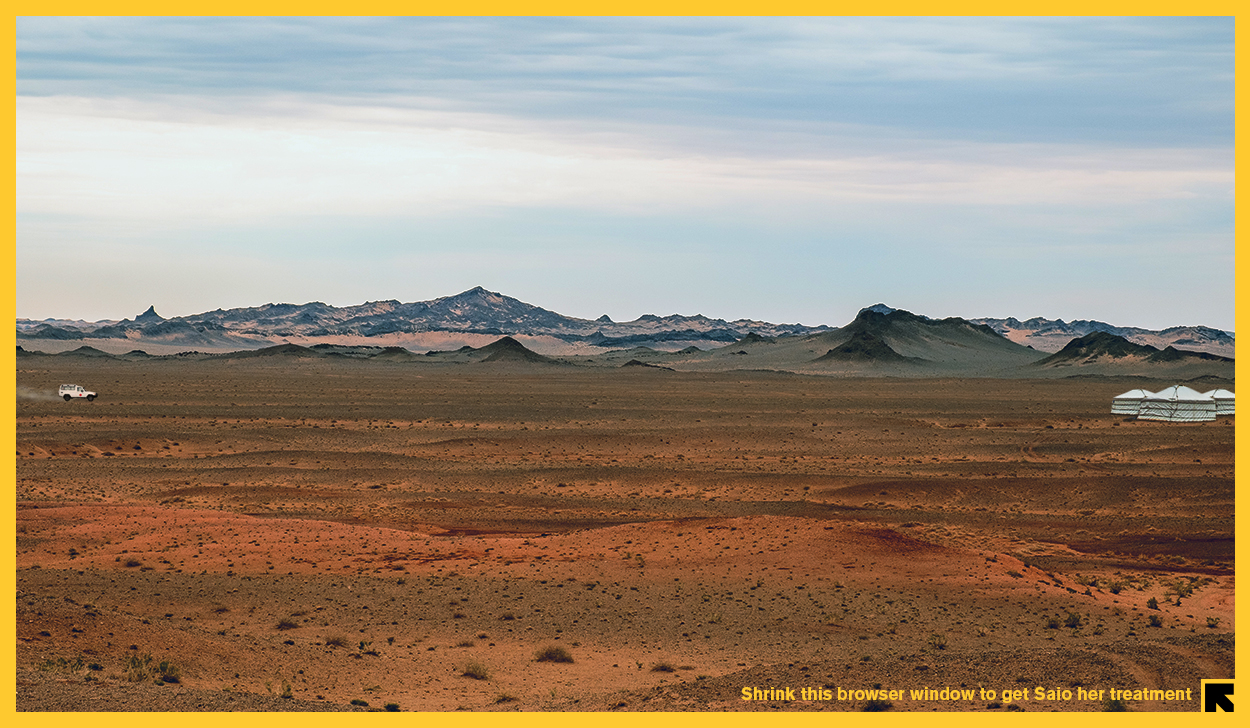
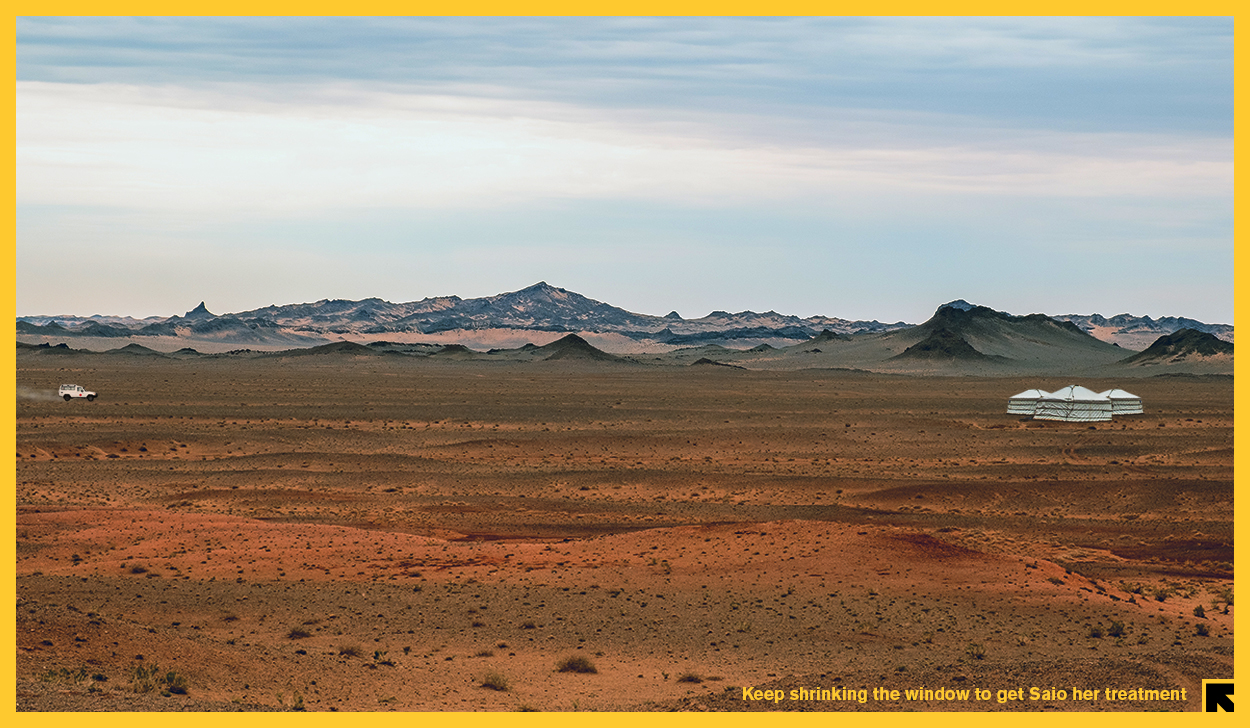
Changed opening animation, moved placement of tents, added people on end, and fixed some bugs

diff --git a/js/index.js b/js/index.js
@@ -21,46 +21,57 @@ $(document).ready(function() {
 		prev = w;
 
 		if (w >= 1700) {
-			$('#img1440, #mainheader, #pointer').css("width", "1700px");
+			$('#img1440, #mainheader, #fakeborder').css("width", "1700px");
 			$('#img1440, #mainheader').fadeIn(700);
-			$('#pointer').delay(1000).fadeIn(300).delay(300).fadeOut(300).delay(300).fadeIn(300).delay(300).fadeOut(300);
+			// $('#pointer').delay(1000).fadeIn(300).delay(300).fadeOut(300).delay(300).fadeIn(300).delay(300).fadeOut(300);
 			headeron = true;
 		} else if (w >= 1440) {
-			$('#img1440, #pointer').css("width", "100%");
+			$('#img1440, #fakeborder').css("width", "100%");
 			$('#img1440, #mainheader').fadeIn(700);
 			headeron = true;
-			$('#pointer').delay(1000).fadeIn(300).delay(300).fadeOut(300).delay(300).fadeIn(300).delay(300).fadeOut(300);
+			$('#fakeborder').toggle().delay(800).animate({ left: "-=15" }, 500).animate({ left: "+=15" }, 500).delay(500).animate({ left: "-=15" }, 500).animate({ left: "+=15" }, 500).fadeOut(300);
+			// $('#pointer').delay(1000).fadeIn(300).delay(300).fadeOut(300).delay(300).fadeIn(300).delay(300).fadeOut(300);
 		} else if (w >= 1400) {
 			$('#img1400, #mainheader').fadeIn(700);
 			headeron = true;
-			$('#pointer').css({width: "1340px", height: "728px", left: "55px"});
-			$('#pointer').delay(1000).fadeIn(300).delay(300).fadeOut(300).delay(300).fadeIn(300).delay(300).fadeOut(300);
+			$('#fakeborder').css("left", "-40px");
+			$('#fakeborder').toggle().delay(800).animate({ left: "-=15" }, 500).animate({ left: "+=15" }, 500).delay(500).animate({ left: "-=15" }, 500).animate({ left: "+=15" }, 500).fadeOut(300);
+			// $('#pointer').css({width: "1340px", height: "728px", left: "55px"});
+			// $('#pointer').delay(1000).fadeIn(300).delay(300).fadeOut(300).delay(300).fadeIn(300).delay(300).fadeOut(300);
 		} else if (w >= 1350) {
 			$('#img1350, #mainheader').fadeIn(700);
 			headeron = true;
-			$('#pointer').css({width: "1280px", height: "728px", left: "65px"});
-			$('#pointer').delay(1000).fadeIn(300).delay(300).fadeOut(300).delay(300).fadeIn(300).delay(300).fadeOut(300);
+			$('#fakeborder').css("left", "-90px");
+			$('#fakeborder').toggle().delay(800).animate({ left: "-=15" }, 500).animate({ left: "+=15" }, 500).delay(500).animate({ left: "-=15" }, 500).animate({ left: "+=15" }, 500).fadeOut(300);
+			// $('#pointer').css({width: "1280px", height: "728px", left: "65px"});
+			// $('#pointer').delay(1000).fadeIn(300).delay(300).fadeOut(300).delay(300).fadeIn(300).delay(300).fadeOut(300);
 		} else if (w >= 1300) {
 			$('#img1300, #mainheader').fadeIn(700);
 			headeron = true;
-			$('#pointer2').css({width: "1500px", height: "728px", left: "-200px"});
-			$('#pointer2').delay(1000).fadeIn(300).delay(300).fadeOut(300).delay(300).fadeIn(300).delay(300).fadeOut(300);
+			$('#fakeborder').css("left", "-140px");
+			$('#fakeborder').toggle().delay(800).animate({ left: "-=15" }, 500).animate({ left: "+=15" }, 500).delay(500).animate({ left: "-=15" }, 500).animate({ left: "+=15" }, 500).fadeOut(300);
+			// $('#pointer2').css({width: "1500px", height: "728px", left: "-200px"});
+			// $('#pointer2').delay(1000).fadeIn(300).delay(300).fadeOut(300).delay(300).fadeIn(300).delay(300).fadeOut(300);
 			$('#modal1').fadeIn(700);
 			console.log("Window is " + w + " and previous was n/a");
 			modal1on = true;
 		} else if (w >= 1250) {
 			$('#img1250, #mainheader').fadeIn(700);
 			headeron = true;
-			$('#pointer2').css({width: "1440px", height: "735px", left: "-195px", top: "-8px"});
-			$('#pointer2').delay(1000).fadeIn(300).delay(300).fadeOut(300).delay(300).fadeIn(300).delay(300).fadeOut(300);
+			// $('#fakeborder').css("left", "-190px");
+			// $('#fakeborder').toggle().delay(800).animate({ left: "-=15" }, 500).animate({ left: "+=15" }, 500).delay(500).animate({ left: "-=15" }, 500).animate({ left: "+=15" }, 500).fadeOut(300);
+			// $('#pointer2').css({width: "1440px", height: "735px", left: "-195px", top: "-8px"});
+			// $('#pointer2').delay(1000).fadeIn(300).delay(300).fadeOut(300).delay(300).fadeIn(300).delay(300).fadeOut(300);
 			$('#modal1').fadeIn(700);
 			console.log("Window is " + w + " and previous was n/a");
 			modal1on = true;
 		} else if (w >= 1200) {
 			$('#img1200, #mainheader').fadeIn(700);
 			headeron = true;
-			$('#pointer2').css({width: "1390px", height: "748px", left: "-190px", top: "-18px"});
-			$('#pointer2').delay(1000).fadeIn(300).delay(300).fadeOut(300).delay(300).fadeIn(300).delay(300).fadeOut(300);
+			// $('#fakeborder').css("left", "-240px");
+			// $('#fakeborder').toggle().delay(800).animate({ left: "-=15" }, 500).animate({ left: "+=15" }, 500).delay(500).animate({ left: "-=15" }, 500).animate({ left: "+=15" }, 500).fadeOut(300);
+			// $('#pointer2').css({width: "1390px", height: "748px", left: "-190px", top: "-18px"});
+			// $('#pointer2').delay(1000).fadeIn(300).delay(300).fadeOut(300).delay(300).fadeIn(300).delay(300).fadeOut(300);
 			$('#modal1').fadeIn(700);
 			console.log("Window is " + w + " and previous was n/a");
 			modal1on = true;
@@ -143,28 +154,30 @@ $(document).ready(function() {
 	window.onresize = function() {
 		var w = window.innerWidth;
 
+		$('#fakeborder').hide();
+
 		if (w >= 1700) {
 			$('#img1440').css("width", "1700px");
 			$('#img1440').show();
-			$('#img1400, #img1350, #img1300, #img1250, #img1200, #img1150, #img1100, #img1050, #img1000, #img950, #img900, #img850, #img800, #img750, #img700, #img650, #img600, #img550, #img520, #img500, #img480, #img460, #img445').hide();
+			$('#modal1, #modal2, #modal3, #img1400, #img1350, #img1300, #img1250, #img1200, #img1150, #img1100, #img1050, #img1000, #img950, #img900, #img850, #img800, #img750, #img700, #img650, #img600, #img550, #img520, #img500, #img480, #img460, #img445').hide();
 			if (prev < w) {
 				$('#mainheader').css("width", "1700px");
 			}
 		} else if (w >= 1440) {
 			$('#img1440').css("width", "100%");
 			$('#img1440').show();
-			$('#img1400, #img1350, #img1300, #img1250, #img1200, #img1150, #img1100, #img1050, #img1000, #img950, #img900, #img850, #img800, #img750, #img700, #img650, #img600, #img550, #img520, #img500, #img480, #img460, #img445').hide();
+			$('#modal1, #modal2, #modal3, #img1400, #img1350, #img1300, #img1250, #img1200, #img1150, #img1100, #img1050, #img1000, #img950, #img900, #img850, #img800, #img750, #img700, #img650, #img600, #img550, #img520, #img500, #img480, #img460, #img445').hide();
 			if (prev > w) {
 				$('#mainheader').css("width", "100%");
 			}
 		} else if (w >= 1400) {
-			$('#img1440, #img1350, #img1300, #img1250, #img1200, #img1150, #img1100, #img1050, #img1000, #img950, #img900, #img850, #img800, #img750, #img700, #img650, #img600, #img550, #img520, #img500, #img480, #img460, #img445').hide();
+			$('#modal1, #modal2, #modal3, #img1440, #img1350, #img1300, #img1250, #img1200, #img1150, #img1100, #img1050, #img1000, #img950, #img900, #img850, #img800, #img750, #img700, #img650, #img600, #img550, #img520, #img500, #img480, #img460, #img445').hide();
 			$('#img1400').show();
 		} else if (w >= 1350) {
-			$('#img1440, #img1400, #img1300, #img1250, #img1200, #img1150, #img1100, #img1050, #img1000, #img950, #img900, #img850, #img800, #img750, #img700, #img650, #img600, #img550, #img520, #img500, #img480, #img460, #img445').hide();
+			$('#modal1, #modal2, #modal3, #img1440, #img1400, #img1300, #img1250, #img1200, #img1150, #img1100, #img1050, #img1000, #img950, #img900, #img850, #img800, #img750, #img700, #img650, #img600, #img550, #img520, #img500, #img480, #img460, #img445').hide();
 			$('#img1350').show();
 		} else if (w >= 1300) {
-			$('#img1440, #img1400, #img1350, #img1250, #img1200, #img1150, #img1100, #img1050, #img1000, #img950, #img900, #img850, #img800, #img750, #img700, #img650, #img600, #img550, #img520, #img500, #img480, #img460, #img445').hide();
+			$('#modal2, #modal3, #img1440, #img1400, #img1350, #img1250, #img1200, #img1150, #img1100, #img1050, #img1000, #img950, #img900, #img850, #img800, #img750, #img700, #img650, #img600, #img550, #img520, #img500, #img480, #img460, #img445').hide();
 			$('#img1300').show();
 			//modal1 fades in/out
 			if (prev > w && !modal1on) {
@@ -177,16 +190,16 @@ $(document).ready(function() {
 				modal1on = false;
 			}
 		} else if (w >= 1250) {
-			$('#img1440, #img1400, #img1350, #img1300, #img1200, #img1150, #img1100, #img1050, #img1000, #img950, #img900, #img850, #img800, #img750, #img700, #img650, #img600, #img550, #img520, #img500, #img480, #img460, #img445').hide();
+			$('#modal2, #modal3, #img1440, #img1400, #img1350, #img1300, #img1200, #img1150, #img1100, #img1050, #img1000, #img950, #img900, #img850, #img800, #img750, #img700, #img650, #img600, #img550, #img520, #img500, #img480, #img460, #img445').hide();
 			$('#img1250').show();
 		} else if (w >= 1200) {
-			$('#img1440, #img1400, #img1350, #img1300, #img1250, #img1150, #img1100, #img1050, #img1000, #img950, #img900, #img850, #img800, #img750, #img700, #img650, #img600, #img550, #img520, #img500, #img480, #img460, #img445').hide();
+			$('#modal2, #modal3, #img1440, #img1400, #img1350, #img1300, #img1250, #img1150, #img1100, #img1050, #img1000, #img950, #img900, #img850, #img800, #img750, #img700, #img650, #img600, #img550, #img520, #img500, #img480, #img460, #img445').hide();
 			$('#img1200').show();
 		} else if (w >= 1150) {
-			$('#img1440, #img1400, #img1350, #img1300, #img1250, #img1200, #img1100, #img1050, #img1000, #img950, #img900, #img850, #img800, #img750, #img700, #img650, #img600, #img550, #img520, #img500, #img480, #img460, #img445').hide();
+			$('#modal2, #modal3, #img1440, #img1400, #img1350, #img1300, #img1250, #img1200, #img1100, #img1050, #img1000, #img950, #img900, #img850, #img800, #img750, #img700, #img650, #img600, #img550, #img520, #img500, #img480, #img460, #img445').hide();
 			$('#img1150').show();
 		} else if (w >= 1100) {
-			$('#img1440, #img1400, #img1350, #img1300, #img1250, #img1200, #img1150, #img1050, #img1000, #img950, #img900, #img850, #img800, #img750, #img700, #img650, #img600, #img550, #img520, #img500, #img480, #img460, #img445').hide();
+			$('#modal2, #modal3, #img1440, #img1400, #img1350, #img1300, #img1250, #img1200, #img1150, #img1050, #img1000, #img950, #img900, #img850, #img800, #img750, #img700, #img650, #img600, #img550, #img520, #img500, #img480, #img460, #img445').hide();
 			$('#img1100').show();
 			//modal1 fades in/out
 			if (prev > w && modal1on) {
@@ -206,14 +219,14 @@ $(document).ready(function() {
 				headeron = true;
 			}
 		} else if (w >= 1050) {
-			$('#img1440, #img1400, #img1350, #img1300, #img1250, #img1200, #img1150, #img1100, #img1000, #img950, #img900, #img850, #img800, #img750, #img700, #img650, #img600, #img550, #img520, #img500, #img480, #img460, #img445').hide();
+			$('#mainheader, #modal1, #modal2, #modal3, #img1440, #img1400, #img1350, #img1300, #img1250, #img1200, #img1150, #img1100, #img1000, #img950, #img900, #img850, #img800, #img750, #img700, #img650, #img600, #img550, #img520, #img500, #img480, #img460, #img445').hide();
 			$('#img1050').show();
 		} else if (w >= 1000) {
-			$('#img1440, #img1400, #img1350, #img1300, #img1250, #img1200, #img1150, #img1100, #img1050, #img950, #img900, #img850, #img800, #img750, #img700, #img650, #img600, #img550, #img520, #img500, #img480, #img460, #img445').hide();
+			$('#mainheader, #modal1, #modal3, #img1440, #img1400, #img1350, #img1300, #img1250, #img1200, #img1150, #img1100, #img1050, #img950, #img900, #img850, #img800, #img750, #img700, #img650, #img600, #img550, #img520, #img500, #img480, #img460, #img445').hide();
 			$('#img1000').show();
+			$('#modal2').css("left", "430px");
 			//modal2 fades in/out
 			if (prev > w && !modal2on) {
-				$('#modal2').css("left", "570px");
 				$('#modal2').fadeIn(300);
 				console.log("Window is " + w + " and previous was " + prev);
 				modal2on = true;
@@ -223,21 +236,21 @@ $(document).ready(function() {
 				modal2on = false;
 			}
 		} else if (w >= 950) {
-			$('#img1440, #img1400, #img1350, #img1300, #img1250, #img1200, #img1150, #img1100, #img1050, #img1000, #img900, #img850, #img800, #img750, #img700, #img650, #img600, #img550, #img520, #img500, #img480, #img460, #img445').hide();
+			$('#mainheader, #modal1, #modal3, #img1440, #img1400, #img1350, #img1300, #img1250, #img1200, #img1150, #img1100, #img1050, #img1000, #img900, #img850, #img800, #img750, #img700, #img650, #img600, #img550, #img520, #img500, #img480, #img460, #img445').hide();
 			$('#img950').show();
-			$('#modal2').css("left", "520px");
+			$('#modal2').css("left", "380px");
 		} else if (w >= 900) {
-			$('#img1440, #img1400, #img1350, #img1300, #img1250, #img1200, #img1150, #img1100, #img1050, #img1000, #img950, #img850, #img800, #img750, #img700, #img650, #img600, #img550, #img520, #img500, #img480, #img460, #img445').hide();
+			$('#mainheader, #modal1, #modal3, #img1440, #img1400, #img1350, #img1300, #img1250, #img1200, #img1150, #img1100, #img1050, #img1000, #img950, #img850, #img800, #img750, #img700, #img650, #img600, #img550, #img520, #img500, #img480, #img460, #img445').hide();
 			$('#img900').show();
-			$('#modal2').css("left", "470px");
+			$('#modal2').css("left", "330px");
 		} else if (w >= 850) {
-			$('#img1440, #img1400, #img1350, #img1300, #img1250, #img1200, #img1150, #img1100, #img1050, #img1000, #img950, #img900, #img800, #img750, #img700, #img650, #img600, #img550, #img520, #img500, #img480, #img460, #img445').hide();
+			$('#mainheader, #modal1, #modal3, #img1440, #img1400, #img1350, #img1300, #img1250, #img1200, #img1150, #img1100, #img1050, #img1000, #img950, #img900, #img800, #img750, #img700, #img650, #img600, #img550, #img520, #img500, #img480, #img460, #img445').hide();
 			$('#img850').show();
-			$('#modal2').css("left", "420px");
+			$('#modal2').css("left", "280px");
 		} else if (w >= 800) {
-			$('#img1440, #img1400, #img1350, #img1300, #img1250, #img1200, #img1150, #img1100, #img1050, #img1000, #img950, #img900, #img850, #img750, #img700, #img650, #img600, #img550, #img520, #img500, #img480, #img460, #img445').hide();
+			$('#mainheader, #modal1, #modal3, #img1440, #img1400, #img1350, #img1300, #img1250, #img1200, #img1150, #img1100, #img1050, #img1000, #img950, #img900, #img850, #img750, #img700, #img650, #img600, #img550, #img520, #img500, #img480, #img460, #img445').hide();
 			$('#img800').show();
-			$('#modal2').css("left", "370px");
+			$('#modal2').css("left", "230px");
 			//modal2 fades in/out
 			if (prev > w && modal2on) {
 				$('#modal2').fadeOut(300);
@@ -249,7 +262,7 @@ $(document).ready(function() {
 				modal2on = true;
 			}
 		} else if (w >= 750) {
-			$('#img1440, #img1400, #img1350, #img1300, #img1250, #img1200, #img1150, #img1100, #img1050, #img1000, #img950, #img900, #img850, #img800, #img700, #img650, #img600, #img550, #img520, #img500, #img480, #img460, #img445').hide();
+			$('#mainheader, #modal1, #modal2, #img1440, #img1400, #img1350, #img1300, #img1250, #img1200, #img1150, #img1100, #img1050, #img1000, #img950, #img900, #img850, #img800, #img700, #img650, #img600, #img550, #img520, #img500, #img480, #img460, #img445').hide();
 			$('#img750').show();
 			//modal3 fades in/out
 			if (prev > w && !modal3on) {
@@ -262,13 +275,13 @@ $(document).ready(function() {
 				modal3on = false;
 			}
 		} else if (w >= 700) {
-			$('#img1440, #img1400, #img1350, #img1300, #img1250, #img1200, #img1150, #img1100, #img1050, #img1000, #img950, #img900, #img850, #img800, #img750, #img650, #img600, #img550, #img520, #img500, #img480, #img460, #img445').hide();
+			$('#mainheader, #modal1, #modal2, #img1440, #img1400, #img1350, #img1300, #img1250, #img1200, #img1150, #img1100, #img1050, #img1000, #img950, #img900, #img850, #img800, #img750, #img650, #img600, #img550, #img520, #img500, #img480, #img460, #img445').hide();
 			$('#img700').show();
 		} else if (w >= 650) {
-			$('#img1440, #img1400, #img1350, #img1300, #img1250, #img1200, #img1150, #img1100, #img1050, #img1000, #img950, #img900, #img850, #img800, #img750, #img700, #img600, #img550, #img520, #img500, #img480, #img460, #img445').hide();
+			$('#mainheader, #modal1, #modal2, #img1440, #img1400, #img1350, #img1300, #img1250, #img1200, #img1150, #img1100, #img1050, #img1000, #img950, #img900, #img850, #img800, #img750, #img700, #img600, #img550, #img520, #img500, #img480, #img460, #img445').hide();
 			$('#img650').show();
 		} else if (w >= 600) {
-			$('#img1440, #img1400, #img1350, #img1300, #img1250, #img1200, #img1150, #img1100, #img1050, #img1000, #img950, #img900, #img850, #img800, #img750, #img700, #img650, #img550, #img520, #img500, #img480, #img460, #img445').hide();
+			$('#mainheader, #modal1, #modal2, #img1440, #img1400, #img1350, #img1300, #img1250, #img1200, #img1150, #img1100, #img1050, #img1000, #img950, #img900, #img850, #img800, #img750, #img700, #img650, #img550, #img520, #img500, #img480, #img460, #img445').hide();
 			$('#img600').show();
 			//modal3 fades in/out
 			if (prev > w && modal3on) {
@@ -281,26 +294,18 @@ $(document).ready(function() {
 				modal3on = true;
 			}
 		} else if (w >= 550) {
-			$('#img1440, #img1400, #img1350, #img1300, #img1250, #img1200, #img1150, #img1100, #img1050, #img1000, #img950, #img900, #img850, #img800, #img750, #img700, #img650, #img600, #img520, #img500, #img480, #img460, #img445').hide();
+			$('#mainheader, #modal1, #modal2, #modal3, #img1440, #img1400, #img1350, #img1300, #img1250, #img1200, #img1150, #img1100, #img1050, #img1000, #img950, #img900, #img850, #img800, #img750, #img700, #img650, #img600, #img520, #img500, #img480, #img460, #img445').hide();
 			$('#img550').show();
 		} else if (w >= 520) {
-			$('#img1440, #img1400, #img1350, #img1300, #img1250, #img1200, #img1150, #img1100, #img1050, #img1000, #img950, #img900, #img850, #img800, #img750, #img700, #img650, #img600, #img550, #img500, #img480, #img460, #img445').hide();
+			$('#mainheader, #modal1, #modal2, #modal3, #img1440, #img1400, #img1350, #img1300, #img1250, #img1200, #img1150, #img1100, #img1050, #img1000, #img950, #img900, #img850, #img800, #img750, #img700, #img650, #img600, #img550, #img500, #img480, #img460, #img445').hide();
 			$('#img520').show();
 		}
-		// else if (w >= 500) {
-		// 	$('#img1440, #img1400, #img1350, #img1300, #img1250, #img1200, #img1150, #img1100, #img1050, #img1000, #img950, #img900, #img850, #img800, #img750, #img700, #img650, #img600, #img550, #img520, #img480, #img460, #img445').hide();
-		// 	$('#img500').show();
-		// }
 		else if (w >= 480) {
-			$('#img1440, #img1400, #img1350, #img1300, #img1250, #img1200, #img1150, #img1100, #img1050, #img1000, #img950, #img900, #img850, #img800, #img750, #img700, #img650, #img600, #img550, #img520, #img500, #img460, #img445').hide();
+			$('#mainheader, #modal1, #modal2, #modal3, #img1440, #img1400, #img1350, #img1300, #img1250, #img1200, #img1150, #img1100, #img1050, #img1000, #img950, #img900, #img850, #img800, #img750, #img700, #img650, #img600, #img550, #img520, #img500, #img460, #img445').hide();
 			$('#img480').show();
 		}
-		// else if (w >= 460) {
-		// 	$('#img1440, #img1400, #img1350, #img1300, #img1250, #img1200, #img1150, #img1100, #img1050, #img1000, #img950, #img900, #img850, #img800, #img750, #img700, #img650, #img600, #img550, #img520, #img500, #img480, #img445').hide();
-		// 	$('#img460').show();
-		// }
 		else if (w >= 445) {
-			$('#img1440, #img1400, #img1350, #img1300, #img1250, #img1200, #img1150, #img1100, #img1050, #img1000, #img950, #img900, #img850, #img800, #img750, #img700, #img650, #img600, #img550, #img520, #img500, #img480, #img460').hide();
+			$('#mainheader, #modal1, #modal2, #modal3, #img1440, #img1400, #img1350, #img1300, #img1250, #img1200, #img1150, #img1100, #img1050, #img1000, #img950, #img900, #img850, #img800, #img750, #img700, #img650, #img600, #img550, #img520, #img500, #img480, #img460').hide();
 			$('#img445').css("width", "445px");
 			$('#img445').show();
 		} else if (w >= 200) {

diff --git a/index.html b/index.html
@@ -26,8 +26,9 @@
 	<body>
 		<div id="container">
 			<img id="mobilesplash" src="images/mobile_splash.jpg">
-			<img id="pointer" src="images/pointer.png">
-			<img id="pointer2" src="images/pointer2.png">
+			<img id="fakeborder" src="images/fakeborder.png">
+			<!-- <img id="pointer" src="images/pointer.png">
+			<img id="pointer2" src="images/pointer2.png"> -->
 			<img id="mainheader" src="images/header.png">
 			<img id="modal1" src="images/modal1.png">
 			<img id="modal2" src="images/modal2.png">
@@ -52,9 +53,7 @@
 			<img id="img600" src="images/img600.jpg">
 			<img id="img550" src="images/img550.jpg">
 			<img id="img520" src="images/img520.jpg">
-			<!-- <img id="img500" src="images/img500.jpg"> -->
 			<img id="img480" src="images/img480.jpg">
-			<!-- <img id="img460" src="images/img460.jpg"> -->
 			<img id="img445" src="images/img445.jpg">
 		</div>
 		<script src="js/index.js"></script>

diff --git a/css/style.css b/css/style.css
@@ -70,7 +70,12 @@ img {
      width: 100%;
 }
 
-#pointer2 {
+#fakeborder {
+     z-index: 110;
+     left: 0;
+}
+
+/*#pointer2 {
      z-index: 105;
      width: 1440px;
 }
@@ -78,7 +83,7 @@ img {
 #pointer {
      z-index: 104;
      width: 1440px;
-}
+}*/
 
 #mainheader {
      z-index: 103;
